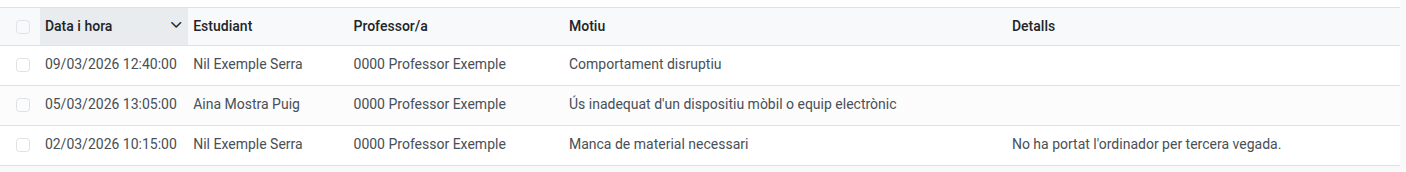
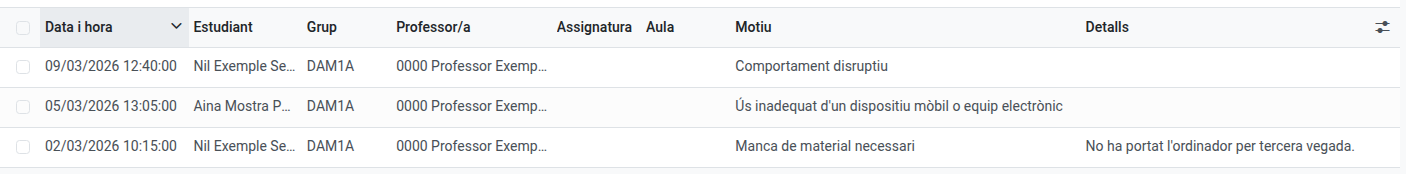
Show the group, subject and classroom of each strike. Closes #546

diff --git a/static/tests/tours/strike_issue_standalone_tour.js b/static/tests/tours/strike_issue_standalone_tour.js
@@ -60,6 +60,10 @@ registry.category("web_tour.tours").add("ems_strike_issue_standalone", {
             trigger: ".o_list_view .o_data_row td[name='notes']:contains('Caught running in the corridor')",
             content: "The new strike is listed without reloading the page",
         },
+        {
+            trigger: ".o_list_view .o_data_row:has(td[name='notes']:contains('Caught running in the corridor')) td[name='group_id']:contains('TSSG1A')",
+            content: "Issue #570: it shows the student's main group, issued outside class",
+        },
         // Issue #554: another strike for the same student a moment later is flagged as a
         // possible duplicate and only sent once confirmed.
         {

diff --git a/tests/test_strike.py b/tests/test_strike.py
@@ -529,3 +529,54 @@ class TestStrike(TransactionCase):
         self.assertFalse(self._duplicate_warning(self.teacher_a_user, line_id=other_line.id))
         # The New strike dialog sets no line: a roll-call strike is not its duplicate.
         self.assertFalse(self._duplicate_warning(self.teacher_a_user))
+
+    # --- group, subject and classroom (issues #546, #570) -------------------------------
+
+    def _create_session_line(self):
+        subject = self.env['ems.subject'].create({
+            'code': 'TSTK001', 'acronym': 'TSTK', 'name': 'Test Subject (Strike)',
+            'study_ids': [(6, 0, [self.study.id])],
+        })
+        space = self.env['ems.space'].create({
+            'code': 'TSTK-A', 'name': 'Test Space (Strike)',
+            'space_type_id': self.env.ref('ems.space_type_classroom').id,
+            'work_location_id': self.env.ref('ems.work_location_main').id,
+        })
+        template = self.env['ems.attendance_template'].create({
+            'teacher_ids': [(6, 0, [self.teacher_a_employee.id])], 'study_ids': [(6, 0, [self.study.id])],
+            'subject_id': subject.id, 'group_ids': [(6, 0, [self.group_record.id])],
+            'start_date': date(2020, 1, 1), 'end_date': date(2030, 12, 31),
+        })
+        schedule = self.env['ems.attendance_schedule'].create({
+            'attendance_template_id': template.id, 'weekday': '1',
+            'start_time': 8.0, 'end_time': 9.0, 'space_id': space.id,
+        })
+        session = self.env['ems.attendance_session_header'].create({
+            'attendance_schedule_id': schedule.id, 'date': self.env['ems.datetime_utils'].get_local_today(),
+            'mode': 'manual', 'session_teacher_id': self.teacher_a_employee.id,
+        })
+        line = self.env['ems.attendance_session_line'].create({
+            'student_id': self.minor_student.id, 'attendance_session_id': session.id,
+        })
+        return line, subject, space
+
+    def test_roll_call_strike_takes_group_subject_and_classroom_from_session(self):
+        line, subject, space = self._create_session_line()
+        strike = self._create_strike(self.teacher_a_user, attendance_session_line_id=line.id)
+        self.assertEqual(strike.group_id, self.group_record)
+        self.assertEqual(strike.subject_id, subject)
+        self.assertEqual(strike.space_id, space)
+
+    def test_strike_outside_class_takes_main_group_without_subject_nor_classroom(self):
+        strike = self._create_strike(self.teacher_a_user)
+        self.assertEqual(strike.group_id, self.group_record)
+        self.assertFalse(strike.subject_id)
+        self.assertFalse(strike.space_id)
+
+    def test_strike_group_frozen_when_student_changes_group(self):
+        strike = self._create_strike(self.teacher_a_user)
+        _level, _study, other_group = create_level_study_group(self, 'TSTK2', level={'name': 'Test Level 2 (Strike)'}, study={
+            'code': 'TSTK002', 'name': 'Test Study 2 (Strike)',
+        }, group={'name': 'Test Group 2 (Strike)'})
+        self.minor_student.main_group_id = other_group
+        self.assertEqual(strike.group_id, self.group_record)

diff --git a/models/coexistence/strike.py b/models/coexistence/strike.py
@@ -15,6 +15,12 @@ class ems_strike(models.Model):
     student_id = fields.Many2one(string="Student", comodel_name="res.partner", domain="[('contact_type', '=', 'student')]", required=True, ondelete="cascade", default=lambda self: self.env.context.get("strike_student_id"))
     teacher_id = fields.Many2one(string="Teacher", comodel_name="hr.employee", required=True, default=lambda self: self.env.user.employee_id)
     attendance_session_line_id = fields.Many2one(string="Session line", comodel_name="ems.attendance_session_line", ondelete="set null", index=True)
+    # Where the incident happened (issues #546, #570), frozen when the strike is issued: only
+    # depends on student_id/attendance_session_line_id, so a later group change or session edit
+    # never rewrites an old strike. A strike issued outside a class has no subject nor classroom.
+    group_id = fields.Many2one(string="Group", comodel_name="ems.group", compute="_compute_session_data", store=True, index=True)
+    subject_id = fields.Many2one(string="Subject", comodel_name="ems.subject", compute="_compute_session_data", store=True)
+    space_id = fields.Many2one(string="Classroom", comodel_name="ems.space", compute="_compute_session_data", store=True)
     reason_id = fields.Many2one(string="Reason", comodel_name="ems.strike.reason", required=True, default=lambda self: self._default_reason_id())
     date = fields.Datetime(string="Date and time", default=fields.Datetime.now, required=True)
     notes = fields.Text(string="Details")
@@ -33,6 +39,15 @@ class ems_strike(models.Model):
     def _compute_display_name(self):
         for strike in self:
             strike.display_name = f"{strike.student_id.display_name} | {strike.date} | {strike.reason_id.name}"
+
+    @api.depends("student_id", "attendance_session_line_id")
+    def _compute_session_data(self):
+        for strike in self:
+            line = strike.attendance_session_line_id
+            # The student's group when the roll-call was taken, as the attendance reports use it.
+            strike.group_id = line.student_group_id if line else strike.student_id.main_group_id
+            strike.subject_id = line.subject_id
+            strike.space_id = line.attendance_session_id.space_id
 
     @api.depends("student_id")
     def _compute_strike_count(self):

diff --git a/tests/test_strike_issue_standalone_tour.py b/tests/test_strike_issue_standalone_tour.py
@@ -1,6 +1,6 @@
 from odoo.tests import tagged, HttpCase
 
-from .common import create_role_employee, create_role_user, mock_outgoing_email, next_student_id
+from .common import create_level_study_group, create_role_employee, create_role_user, mock_outgoing_email, next_student_id
 
 
 @tagged('post_install', '-at_install')
@@ -18,9 +18,12 @@ class TestStrikeIssueStandaloneTour(HttpCase):
             'name': 'Strike From Student Student', 'contact_type': 'student', 'student_id': next_student_id(),
             'student_email': 'strike_from_student_student@example.com',
         })
+        # Issue #570: a strike issued outside class is listed under the student's main group
+        # (study acronym + course + group acronym = 'TSSG1A').
+        _level, _study, cls.group = create_level_study_group(cls, 'TSSG')
         cls.env['res.partner'].create({
             'name': 'Strike Standalone Student', 'contact_type': 'student', 'student_id': next_student_id(),
-            'student_email': 'strike_standalone_student@example.com',
+            'student_email': 'strike_standalone_student@example.com', 'main_group_id': cls.group.id,
         })
 
     def test_strike_issue_standalone_tour(self):
@@ -29,6 +32,9 @@ class TestStrikeIssueStandaloneTour(HttpCase):
         self.assertEqual(strike.teacher_id.user_id, self.teacher_user)
         self.assertTrue(strike.kicked_out)
         self.assertFalse(strike.attendance_session_line_id)
+        self.assertEqual(strike.group_id, self.group)
+        self.assertFalse(strike.subject_id)
+        self.assertFalse(strike.space_id)
         # Issue #554: the second strike, confirmed despite the duplicate warning.
         self.assertTrue(self.env['ems.strike'].search([('notes', '=', 'Threw a chair, a different incident')]))
 

diff --git a/docs/en/developers/coexistence/strike.md b/docs/en/developers/coexistence/strike.md
@@ -33,6 +33,11 @@ Every strike notifies the student's own email always, and the group tutor always
 | `send_to` | `Char` (readonly) | — | Resolved recipient addresses, semicolon-separated (bookkeeping) |
 | `strike_count` | `Integer` (computed, not stored) | — | Student's cumulative strike count up to and including this one; not shown in any view (redundant with the list itself) — used internally by `_check_escalation()` and by the escalation email's "Total strikes" line |
 | `attendance_session_line_id` | `Many2one → ems.attendance_session_line` | No | Optional; set only when issued from the roll-call view, `ondelete='set null'` — the strike record is never deleted just because its session/line is |
+| `group_id` | `Many2one → ems.group` (computed, stored) | — | The student's group when the strike was issued: the session line's `student_group_id` (same as the attendance reports), or the student's `main_group_id` for a strike issued outside class |
+| `subject_id` | `Many2one → ems.subject` (computed, stored) | — | The session line's subject; empty for a strike issued outside class |
+| `space_id` | `Many2one → ems.space` (computed, stored, "Classroom") | — | The session's classroom (`attendance_session_id.space_id`); empty for a strike issued outside class |
+
+`group_id`/`subject_id`/`space_id` (issues #546, #570) share one compute, `_compute_session_data()`, which only depends on `student_id` and `attendance_session_line_id`: they are frozen when the strike is issued, so a later group change or session edit never rewrites an old strike. They are shown in the Coexistence → Strikes list (subject and classroom as optional columns) and on the strike's form (subject and classroom only when set). Existing strikes got them computed when the stored columns were created on upgrade; for a strike issued outside class that means the student's main group at upgrade time.
 
 `display_name` is computed as `"{student} | {date} | {reason}"`.
 

diff --git a/docs/es/head_of_studies/strike.md b/docs/es/head_of_studies/strike.md
@@ -14,6 +14,8 @@ Esta página cubre tanto el historial completo de strikes (Jefatura de Estudios 
 
 **Convivencia → Strikes** muestra todos los strikes puestos en todo el centro, independientemente de qué profesor los haya puesto, a qué rama pertenezca el alumno, o de tu propio rol de Jefatura de Estudios / Jefatura de Estudios Adjunta / Dirección — esta vista centralizada no está limitada por departamento. Si además tienes el rol de Convivencia, ves exactamente la misma lista completa.
 
+Cada fila muestra el grupo del alumno y la asignatura y el aula de la sesión en la que se puso el strike. Un strike puesto fuera de clase (con **Nuevo strike**) muestra el grupo principal del alumno, sin asignatura ni aula.
+
 En la ficha del propio alumno, aparece un botón de **Strikes** en la cabecera que muestra el recuento acumulado. Al abrir cualquier strike concreto se muestra una casilla **Expulsado de clase**, para saber de un vistazo si esa incidencia terminó con el alumno fuera del aula.
 
 ![Ficha de un strike con la casilla Expulsado de clase marcada](../../assets/head_of_studies/hos-strike-kicked-out.png)

diff --git a/docs/ca/head_of_studies/strike.md b/docs/ca/head_of_studies/strike.md
@@ -14,6 +14,8 @@ Aquesta pàgina cobreix tant l'historial complet de strikes (Cap d'Estudis / Cap
 
 **Convivència → Strikes** mostra tots els strikes posats a tot el centre, independentment de quin professor els hagi posat, a quina branca pertanyi l'alumne, o del teu propi rol de Cap d'Estudis / Cap d'Estudis Adjunt/a / Direcció — aquesta vista centralitzada no està limitada per departament. Si a més tens el rol de Convivència, veus exactament la mateixa llista completa.
 
+Cada fila mostra el grup de l'alumne i l'assignatura i l'aula de la sessió on es va posar el strike. Un strike posat fora de classe (amb **Nou strike**) mostra el grup principal de l'alumne, sense assignatura ni aula.
+
 A la fitxa del propi alumne, apareix un botó de **Strikes** a la capçalera que mostra el recompte acumulat. En obrir qualsevol strike concret es mostra una casella **Expulsat de classe**, per saber d'un cop d'ull si aquella incidència va acabar amb l'alumne fora de l'aula.
 
 ![Fitxa d'un strike amb la casella Expulsat de classe marcada](../../assets/head_of_studies/hos-strike-kicked-out.png)

diff --git a/docs/en/head_of_studies/strike.md b/docs/en/head_of_studies/strike.md
@@ -14,6 +14,8 @@ This page covers both the full strike history (Head of Studies / Deputy Head of 
 
 **Convivencia → Strikes** shows every strike issued centre-wide, regardless of which teacher issued it, which branch the student belongs to, or your own Head of Studies / Deputy Head of Studies / Director role — this centre-wide view is not scoped by department. If you hold the Coexistence role as well, you see the exact same complete list.
 
+Each row shows the student's group, and the subject and classroom of the session where the strike was issued. A strike issued outside class (with **New strike**) shows the student's main group, with no subject or classroom.
+
 From a student's own form, a **Strikes** button appears in the header showing their accumulated count. Opening any individual strike record shows a **Kicked out of class** checkbox, so you can tell at a glance whether that incident ended with the student being sent out of the classroom.
 
 ![Strike record with the Kicked out of class checkbox ticked](../../assets/head_of_studies/hos-strike-kicked-out.png)

diff --git a/docs/es/tutors/strike.md b/docs/es/tutors/strike.md
@@ -14,6 +14,8 @@ Como tutor/a de grupo, recibes una notificación por correo electrónico cada ve
 
 - **Convivencia → Strikes** muestra todos los strikes que has puesto tú mismo/a, más todos los strikes puestos a cualquier alumno de tu grupo — independientemente de qué profesor lo haya puesto.
 
+  Cada fila muestra el grupo del alumno y la asignatura y el aula de la sesión en la que se puso el strike. Un strike puesto fuera de clase (con **Nuevo strike**) muestra el grupo principal del alumno, sin asignatura ni aula.
+
   ![Lista de strikes con los del alumnado tutorado, los haya puesto quien los haya puesto](../../assets/tutors/amonestacions-01-llista.png)
 - En la ficha del propio alumno, aparece un botón de **Strikes** en la cabecera que muestra el recuento acumulado (0 si aún no tiene ninguno) — haz clic en él para ver el historial completo de ese alumno y, desde allí, ponerle uno nuevo con **Nuevo strike**.
 

diff --git a/docs/es/teachers/strike.md b/docs/es/teachers/strike.md
@@ -66,6 +66,8 @@ Mientras se envía un strike, su botón **Enviar** queda desactivado, así que s
 ## Consultar los strikes
 
 - **Convivencia → Strikes** muestra todos los strikes que has puesto.
+
+  Cada fila muestra el grupo del alumno y la asignatura y el aula de la sesión en la que se puso el strike. Un strike puesto fuera de clase (con **Nuevo strike**) muestra el grupo principal del alumno, sin asignatura ni aula.
 - En la ficha del propio alumno, aparece un botón de **Strikes** en la cabecera que muestra el recuento acumulado (0 si aún no tiene ninguno) — haz clic en él para ver el historial completo de ese alumno y, desde allí, ponerle uno nuevo con **Nuevo strike**.
 - Desde **Asistencia → Historial**, al abrir una de tus sesiones anteriores ahora también se muestra, por cada fila de alumno, cuántos strikes se pusieron durante esa sesión concreta, con un botón para ver su detalle completo.
 

diff --git a/docs/ca/teachers/strike.md b/docs/ca/teachers/strike.md
@@ -66,6 +66,8 @@ Mentre s'envia un strike, el seu botó **Enviar** queda desactivat, de manera qu
 ## Consultar els strikes
 
 - **Convivència → Strikes** mostra tots els strikes que has posat.
+
+  Cada fila mostra el grup de l'alumne i l'assignatura i l'aula de la sessió on es va posar el strike. Un strike posat fora de classe (amb **Nou strike**) mostra el grup principal de l'alumne, sense assignatura ni aula.
 - A la fitxa del propi alumne, apareix un botó de **Strikes** a la capçalera que mostra el recompte acumulat (0 si encara no en té cap) — clica'l per veure l'historial complet d'aquell alumne i, des d'allà, posar-li'n un de nou amb **Nou strike**.
 - Des de **Assistència → Historial**, en obrir una de les teves sessions anteriors ara també es mostra, per cada fila d'alumne, quants strikes es van posar durant aquella sessió concreta, amb un botó per veure'n el detall complet.
 

diff --git a/docs/ca/tutors/strike.md b/docs/ca/tutors/strike.md
@@ -14,6 +14,8 @@ Com a tutor/a de grup, reps una notificació per correu electrònic cada vegada 
 
 - **Convivència → Strikes** mostra tots els strikes que has posat tu mateix/a, més tots els strikes posats a qualsevol alumne del teu grup — independentment de quin professor l'hagi posat.
 
+  Cada fila mostra el grup de l'alumne i l'assignatura i l'aula de la sessió on es va posar el strike. Un strike posat fora de classe (amb **Nou strike**) mostra el grup principal de l'alumne, sense assignatura ni aula.
+
   ![Llista d'strikes amb els de l'alumnat tutorat, els hagi posat qui els hagi posat](../../assets/tutors/amonestacions-01-llista.png)
 - A la fitxa del propi alumne, apareix un botó de **Strikes** a la capçalera que mostra el recompte acumulat (0 si encara no en té cap) — clica'l per veure l'historial complet d'aquell alumne i, des d'allà, posar-li'n un de nou amb **Nou strike**.
 
